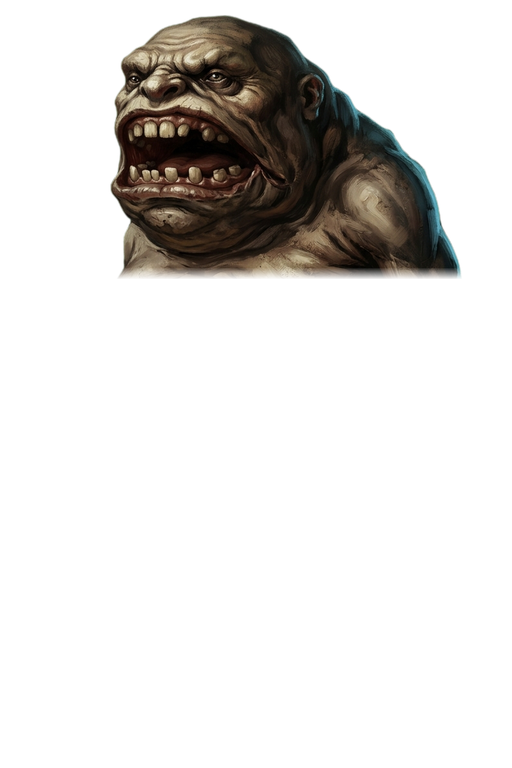
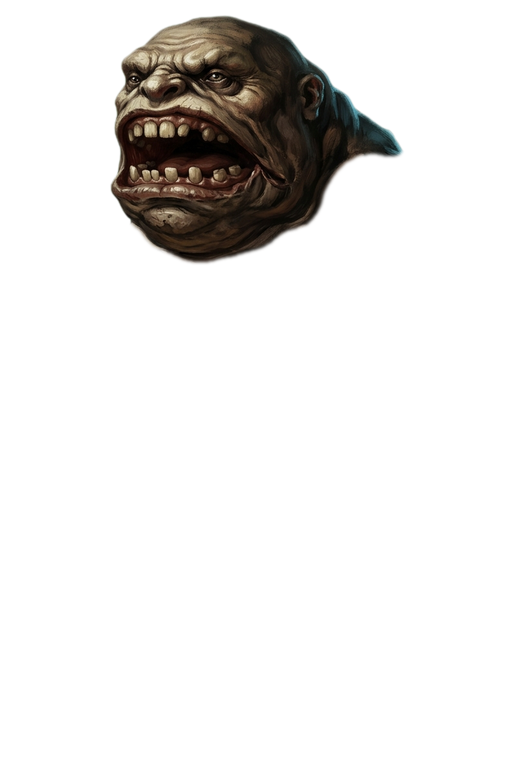
Nine foe marks that had come in as flat vector drawings repainted in Flow (flicker, overheat, Yaga's mortar, doom, kinetic charge and moss, Bayun's post, spell mirror, Gorynych's heads); zhivoglot's rig parts and corpses; a tool to paint a foe's missing fight poses

diff --git a/tools/flow_pose_cmds.py b/tools/flow_pose_cmds.py
@@ -1,0 +1,95 @@
+"""Prints the Browser MCP command block that paints a foe's missing fight poses in Google Flow.
+
+    python tools/flow_pose_cmds.py <id> [strike|hurt|guard|cast ...]
+
+With no poses named, it paints every pose the foe lacks for its moves: `_hurt` always, `_strike`
+for attacks, `_guard` for defending, `_cast` for buffs, curses, summons and specials. The foe is
+described by the words of its rig prompts (`_inbox/flow_up/cmd_<id>.txt`) or, failing that, by its
+line in docs/prompts/01_enemies.md. The resting picture on a green square,
+`_inbox/flow_up/rig_<id>.png` (made if missing), is attached as the look only and each pose is
+asked as a new picture; they land as `_inbox/flow_up/<id>_<pose>.png`, to be taken in with
+`python tools/pose_in.py _inbox/flow_up/<id>_<pose>.png <id> <id>_<pose> _inbox/flow_up/rig_<id>.png`
+(the green square is the scale source: it holds the resting picture at its own size). Paste the output into one
+`browser` call (about a minute per pose).
+"""
+import os
+import re
+import sys
+
+from PIL import Image
+
+ROOT = os.path.join(os.path.dirname(os.path.abspath(__file__)), "..")
+UP = "D:/grok-test/slaythespireclone/_inbox/flow_up"
+ADD = "eval \"() => { const b=[...document.querySelectorAll('button')].find(b=>b.textContent.trim()==='Добавить в запрос'); if(b){b.click(); return 'added'} return 'direct' }\""
+
+POSES = {
+    "strike": "{He} ATTACKS: lunging forward to the LEFT, striking hard with {his} weapon, claws or fists, body leaning into the blow, face fierce.",
+    "hurt": "{He} has just been struck hard and REELS BACK to the right, away from the blow, head thrown back, face twisted in pain, arms flung out, a little dark blood on {his} shoulder.",
+    "guard": "{He} braces in a tight DEFENSIVE stance, body turned half away and crouched, weapon, arms or wings raised across the front to ward off a blow.",
+    "cast": "{He} CASTS a curse: standing tall, one arm or claw raised high and the other thrust forward to the LEFT, fingers spread, mouth open in a chant. No glow, no sparks, no magic effects at all, the pose alone.",
+}
+TAIL = ("Whole figure inside the frame with a margin on every side, the feet near the bottom, the same size as in the attached picture. "
+        "Flat solid pure green #00FF00 background, no ground texture, no shadow, no green on the figure.")
+
+
+def who_of(foe):
+    cmd = os.path.join(ROOT, "_inbox", "flow_up", f"cmd_{foe}.txt")
+    if os.path.exists(cmd):
+        m = re.search(r"Keep the SAME (.*?), (his|her|its) pose", open(cmd, encoding="utf-8").read())
+        if m:
+            return m.group(1), m.group(2)
+    for line in open(os.path.join(ROOT, "docs", "prompts", "01_enemies.md"), encoding="utf-8"):
+        if line.startswith(f"| `{foe}` |"):
+            text = line.split("|")[3].strip().rstrip(".")
+            its = "her" if re.search(r"\b(woman|witch|crone|maiden|she|her|girl|hag|goddess|bird-woman)\b", text, re.I) else "its"
+            return text.split(":")[0].strip(), its
+    raise SystemExit(f"no description for {foe}")
+
+
+def missing(foe):
+    t = "".join(open(os.path.join(ROOT, "assets", "data", "enemies", f), encoding="utf-8").read() for f in os.listdir(os.path.join(ROOT, "assets", "data", "enemies")))
+    m = re.search(r'id:\s*"%s",\s*hp.*?\n    \),' % re.escape(foe), t, re.S)
+    intents = set(re.findall(r"intent:\s*(\w+)", m.group(0))) if m else set()
+    need = ["hurt"]
+    if intents & {"Attack", "AttackAll"}:
+        need.append("strike")
+    if "Defend" in intents:
+        need.append("guard")
+    if intents & {"Buff", "Debuff", "Special", "Summon", "Unknown"}:
+        need.append("cast")
+    return [p for p in need if not os.path.exists(os.path.join(ROOT, "assets", "enemies", f"{foe}_{p}-gemini.png"))]
+
+
+def green_square(foe):
+    out = os.path.join(ROOT, "_inbox", "flow_up", f"rig_{foe}.png")
+    if not os.path.exists(out):
+        im = Image.open(os.path.join(ROOT, "assets", "enemies", f"{foe}-gemini.png")).convert("RGBA")
+        s = max(im.size)
+        bg = Image.new("RGBA", (s, s), (0, 255, 0, 255))
+        bg.alpha_composite(im, ((s - im.width) // 2, (s - im.height) // 2))
+        bg.convert("RGB").save(out)
+
+
+def main():
+    foe = sys.argv[1]
+    poses = sys.argv[2:] or missing(foe)
+    who, its = who_of(foe)
+    he = {"his": "He", "her": "She", "its": "It"}[its]
+    green_square(foe)
+    out = ["click getByRole('button', { name: 'Добавить ингредиенты в окно запроса' })", "wait 1200",
+           f"upload getByRole('button', {{ name: 'Загрузить' }}).last() {UP}/rig_{foe}.png", "wait 9000"]
+    for i, pose in enumerate(poses):
+        if i:
+            out += ["click getByRole('button', { name: 'Добавить ингредиенты в окно запроса' })", "wait 1200"]
+        out += [f"click getByText('rig_{foe}.png').last()", "wait 1000", ADD, "wait 800"]
+        what = POSES[pose].format(He=he, his=its)
+        prompt = (f"Use the attached picture only for what the {who} looks like (same body, clothes, colours, painted style, lighting and size). "
+                  f"Paint {'him' if its == 'his' else 'her' if its == 'her' else 'it'} in a NEW pose, square 1:1, one single image, no text: {what} {TAIL}")
+        out += ["click getByRole('textbox', { name: 'Что вы хотите создать?' })", f'type "{prompt}"',
+                "click getByRole('button', { name: 'Начать генерацию' })", "wait 45000",
+                f'download "[role=group] img >> nth=0" --path {UP}/{foe}_{pose}.png']
+    print("\n".join(out))
+
+
+if __name__ == "__main__":
+    main()

diff --git a/crates/game/src/battle/rig.rs b/crates/game/src/battle/rig.rs
@@ -149,7 +149,7 @@ const FIGURES: &[(&str, &[Cut])] = &[
     ("enemies/biryuk", &[(Part::Head, Vec2::new(0.44, 0.27), 1.0)]),
     ("enemies/podmenysh", &[(Part::Head, Vec2::new(0.5, 0.17), 1.0)]),
     ("enemies/polevik", &[(Part::Head, Vec2::new(0.456, 0.2), 1.0)]),
-    ("enemies/zhivoglot", &[(Part::Head, Vec2::new(0.566, 0.355), 1.0)]),
+    ("enemies/zhivoglot", &[(Part::Head, Vec2::new(0.52, 0.2), 1.0)]),
     ("enemies/gravedigger", &[(Part::Head, Vec2::new(0.44, 0.17), 1.0)]),
     ("enemies/pugach", &[(Part::Head, Vec2::new(0.33, 0.55), 0.8)]),
     ("enemies/bolotnitsa", &[(Part::Head, Vec2::new(0.467, 0.17), 1.0)]),

diff --git a/docs/prompts/04_status_icons.md b/docs/prompts/04_status_icons.md
@@ -70,3 +70,22 @@ scenery. The emblem: …"
 | brew_all | a big black iron cauldron boiling over, glowing green brew spilling down all its sides in several streams, herbs sticking out, steam rising |
 
 `crates/game/src/foe_audit.rs` fails when a mark the status row can show has no picture.
+
+### Foe marks repainted (2026-11-15)
+
+Nine foe marks had come in as flat vector drawings (SVG turned into PNG) and were repainted the
+same way as the boons above:
+
+| key | what it shows |
+|---|---|
+| flicker | a pale ghostly woman's veil half dissolving into shadow, flickering between there and not there, a crescent moon behind it, cold violet glow |
+| overheat | a forged iron fist glowing red-hot from within, cracks of molten orange light, flames licking up from the knuckles |
+| yaga_mortar | Baba Yaga's heavy iron-bound wooden mortar with a pestle standing in it and a birch broom tied to its side, dull iron glow |
+| doom | a bone hourglass with black plague sand running out, a small skull at its base, sickly green glow, the sand almost gone |
+| kinetic_charge | a clump of dark green forest moss coiled tight like a spring around a glowing yellow-green seed of stored force, small sparks crackling in it |
+| kinetic_moss | a thick round cushion of shaggy dark green moss on a stone, a blunt arrowhead sunk harmlessly into it, soft green glow |
+| bayun_perch | a tall old iron-bound wooden post with a great black cat's paw and curved claws gripping its top, two glowing yellow cat eyes above it, golden glow |
+| spell_mirror | a round polished copper mirror held in an iron bird's talon, a sword stroke bouncing back off its surface as a bright arc, coppery glow |
+| gorynych_head | three scaly dragon heads on three necks rising from one stump, the middle one freshly regrowing out of a raw neck, ember-red glow |
+
+Never draw an icon as vector shapes: every picture in the game is painted.
